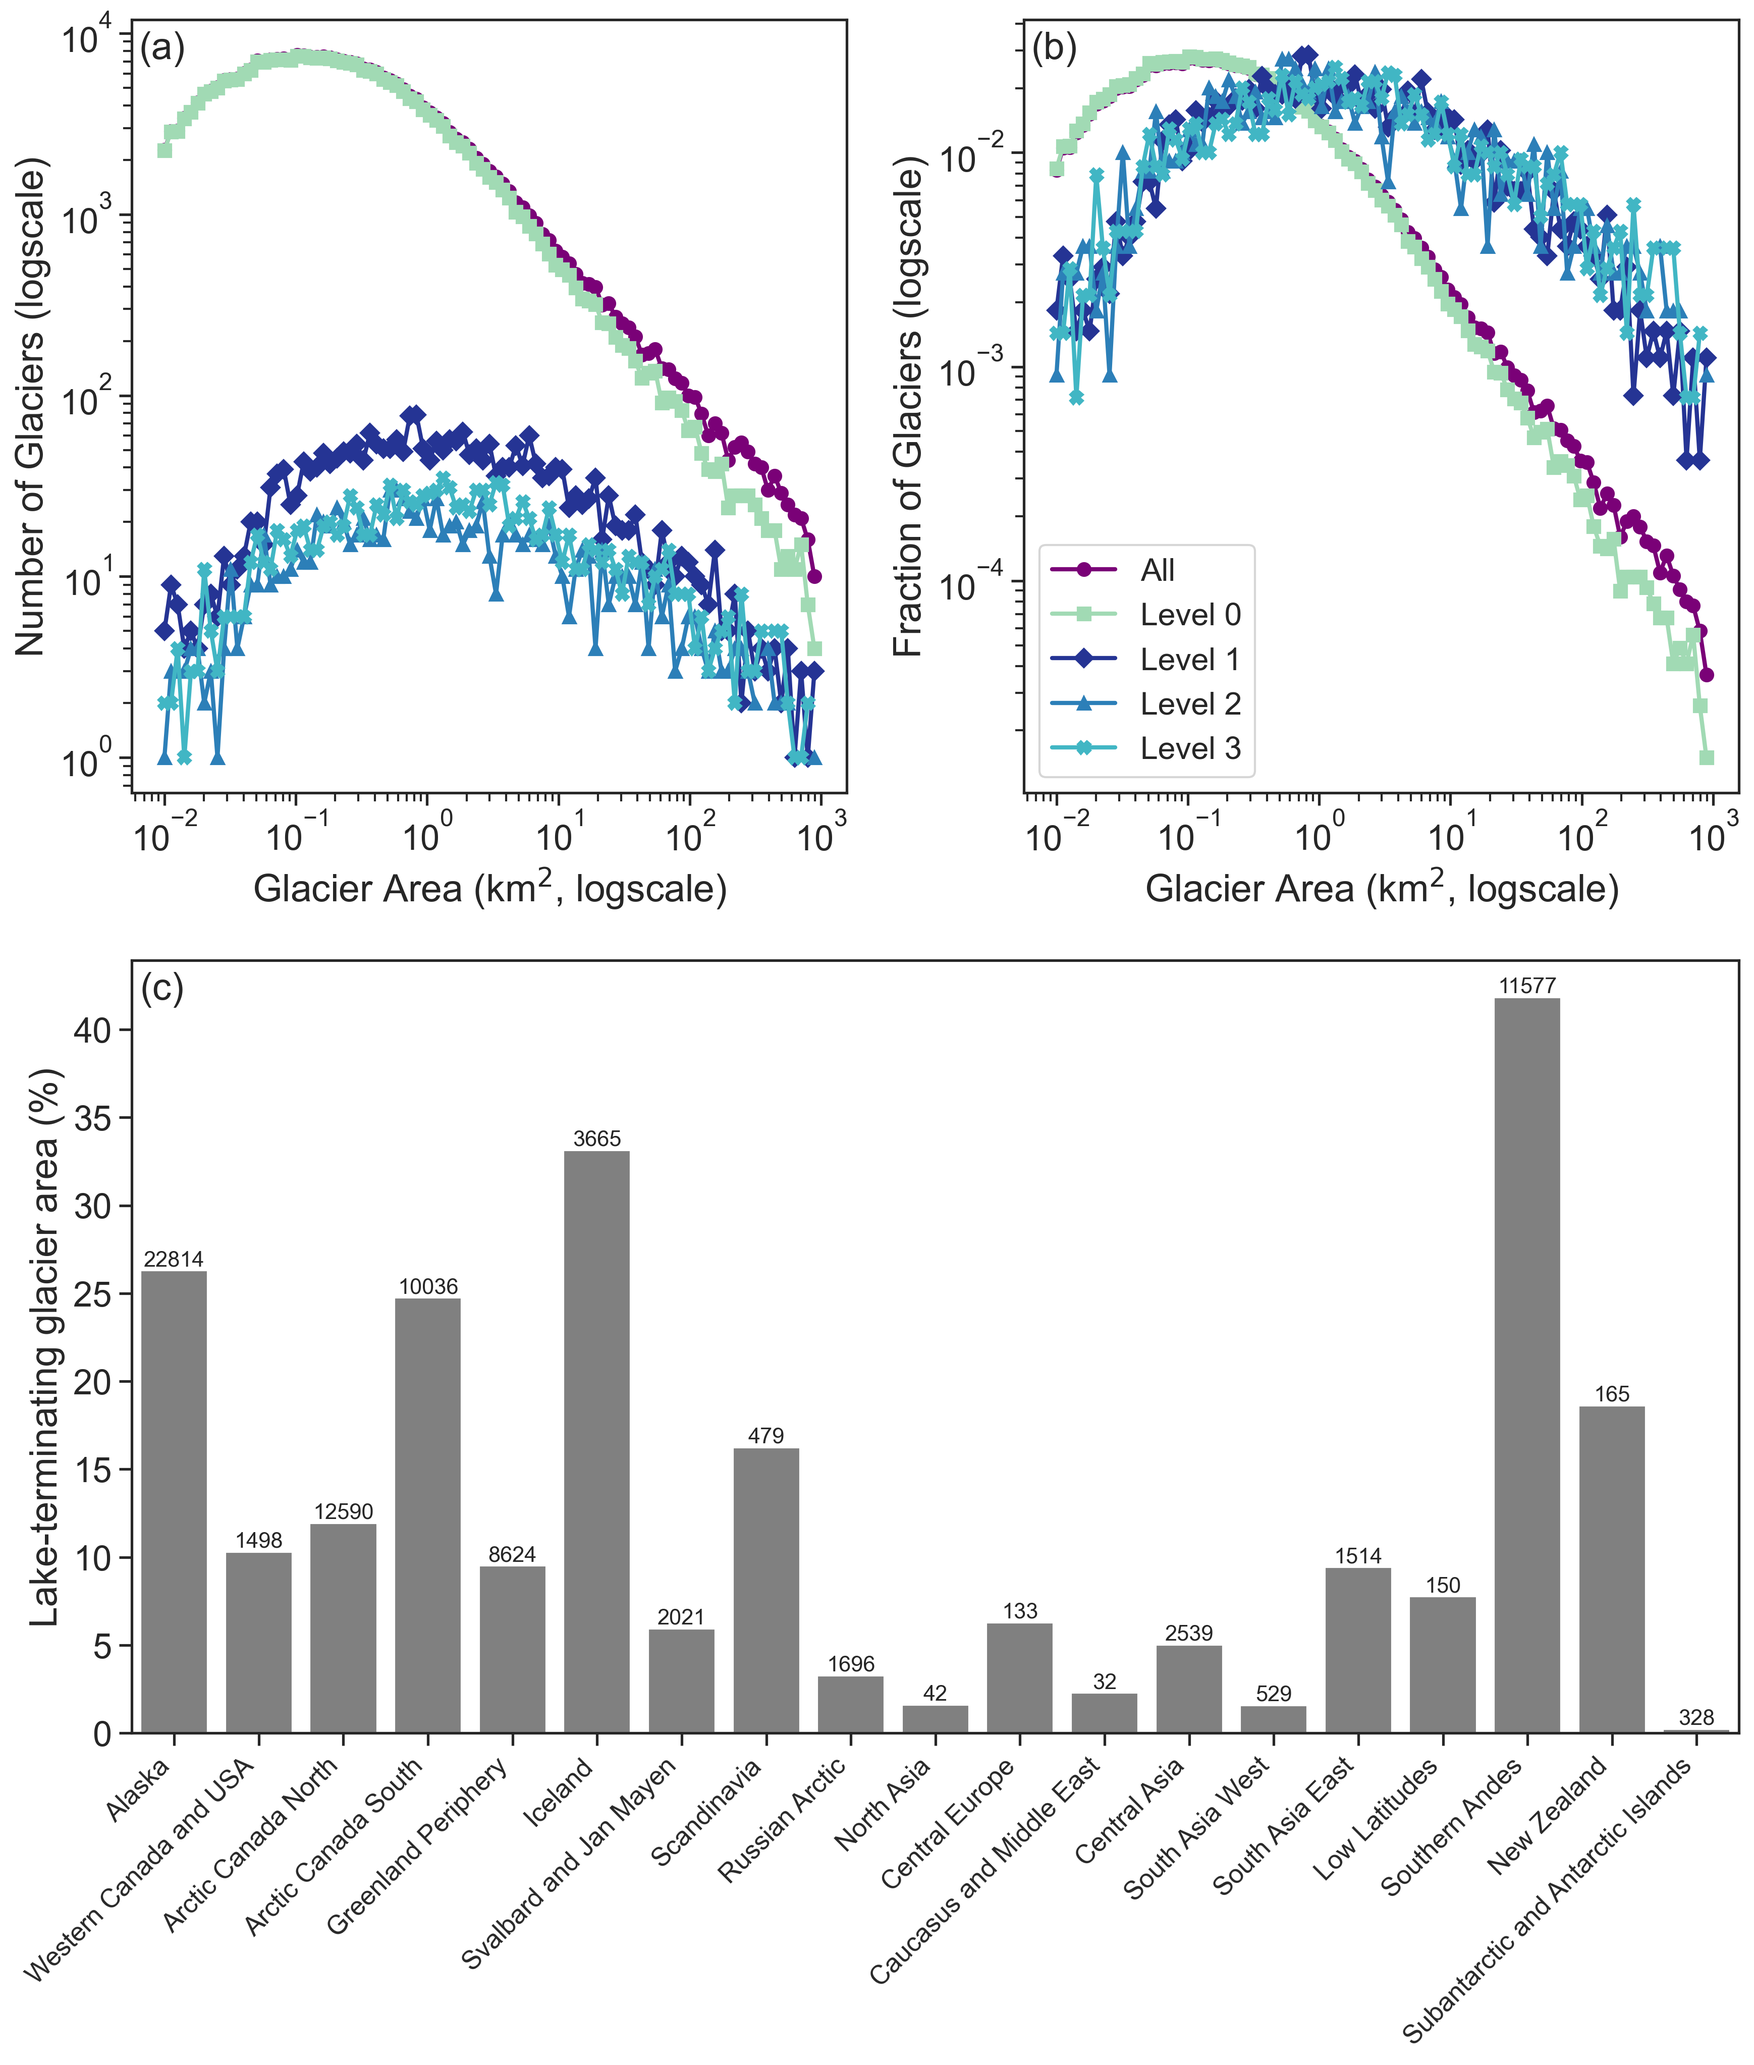
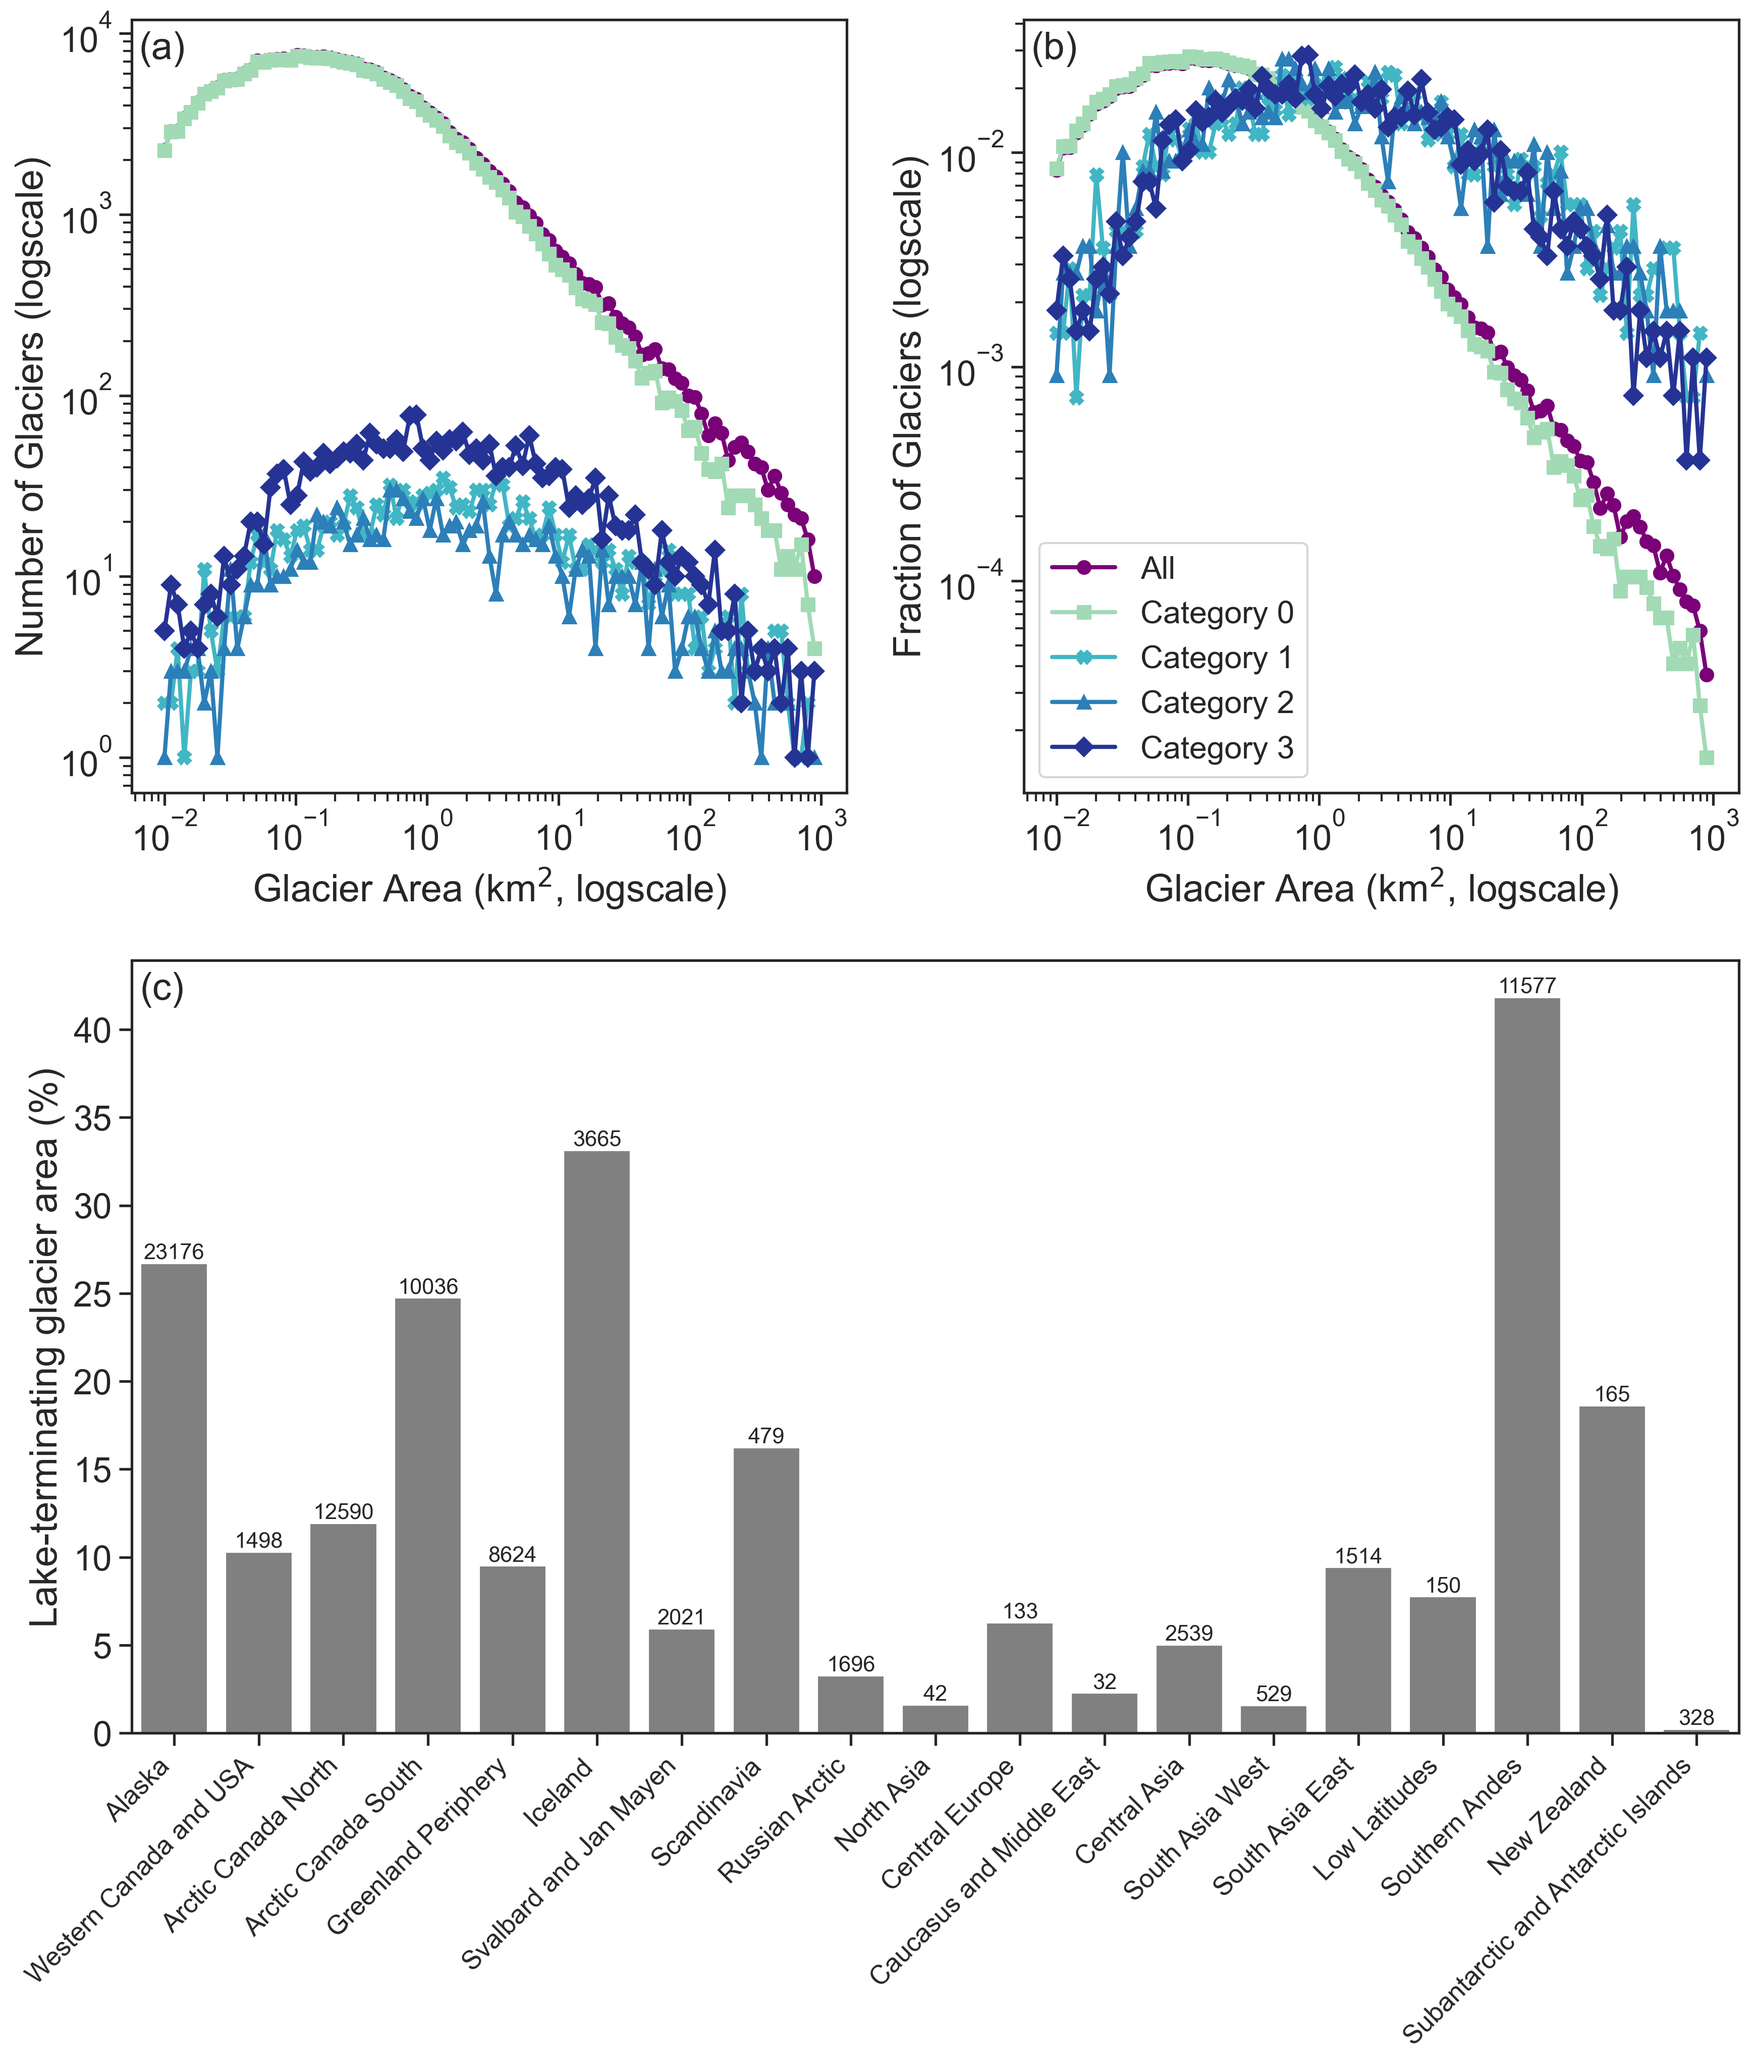
change from level to category
- update figure names
- change field names
- use local files rather than downloading

diff --git a/essd/scripts/Fig5_AreaDistribution.py b/essd/scripts/Fig5_AreaDistribution.py
@@ -7,7 +7,7 @@ import matplotlib.pyplot as plt
 from matplotlib.gridspec import GridSpec
 
 
-base_url = 'https://github.com/GLIMS-RGI/lake_terminating/raw/refs/heads/main/tables/RGI2000-v7.0-G-'
+base_url = Path('..', 'dataset')
 
 regions = ['01_alaska', '02_western_canada_usa', '03_arctic_canada_north', '04_arctic_canada_south',
            '05_greenland_periphery', '06_iceland', '07_svalbard_jan_mayen', '08_scandinavia', '09_russian_arctic',
@@ -24,7 +24,7 @@ lake_flags = []
 areas = []
 
 for reg in regions:
-    lake_flags.append(pd.read_csv(base_url + reg + '_lakeflag.csv').set_index('rgi_id'))
+    lake_flags.append(pd.read_csv(Path(base_url, f"RGI2000-v7.0-G-{reg}_lakeflag.csv")).set_index('rgi_id'))
     outlines = gpd.read_file(Path('rgi', 'RGI2000-v7.0-G-' + reg,
                                   'RGI2000-v7.0-G-' + reg + '.shp')).set_index('rgi_id')
 
@@ -40,19 +40,18 @@ lake_flags['region'] = lake_flags['rgi_id'].str.split('-', expand=True)[3]
 
 regional_vals = pd.DataFrame()
 regional_vals['total_area'] = lake_flags.groupby('region')['area'].sum()
-regional_vals['lake_area'] = lake_flags.loc[lake_flags['lake_level'].isin([1, 2])].groupby('region')['area'].sum()
+regional_vals['lake_area'] = lake_flags.loc[lake_flags['lake_cat'].isin([2, 3])].groupby('region')['area'].sum()
 regional_vals['pct_area'] = 100 * regional_vals['lake_area'] / regional_vals['total_area']
 regional_vals.index = names
 
 bins = np.logspace(-2, 3, 100)
-#dens_lake, _ = np.histogram(lake_flags.loc[lake_flags['lake_level'].isin([1, 2]), 'area'], bins)
 
 densities = dict()
 densities['all'], _ = np.histogram(lake_flags['area'], bins)
-densities['level0'], _ = np.histogram(lake_flags.loc[lake_flags['lake_level'].isin([0]), 'area'], bins)
-densities['level1'], _ = np.histogram(lake_flags.loc[lake_flags['lake_level'].isin([1]), 'area'], bins)
-densities['level2'], _ = np.histogram(lake_flags.loc[lake_flags['lake_level'].isin([2]), 'area'], bins)
-densities['level3'], _ = np.histogram(lake_flags.loc[lake_flags['lake_level'].isin([3]), 'area'], bins)
+densities['cat0'], _ = np.histogram(lake_flags.loc[lake_flags['lake_cat'].isin([0]), 'area'], bins)
+densities['cat1'], _ = np.histogram(lake_flags.loc[lake_flags['lake_cat'].isin([1]), 'area'], bins)
+densities['cat2'], _ = np.histogram(lake_flags.loc[lake_flags['lake_cat'].isin([2]), 'area'], bins)
+densities['cat3'], _ = np.histogram(lake_flags.loc[lake_flags['lake_cat'].isin([3]), 'area'], bins)
 
 for lev, dens in densities.items():
     densities[lev] = dens * 1.
@@ -77,15 +76,15 @@ axs.append(fig.add_subplot(gs[0, 0]))
 axs.append(fig.add_subplot(gs[0, 1]))
 axs.append(fig.add_subplot(gs[1, :]))
 
-labels = {'all': 'All', 'level0': 'Level 0', 'level1': 'Level 1',
-          'level2': 'Level 2', 'level3': 'Level 3'}
+labels = {'all': 'All', 'cat0': 'Category 0', 'cat1': 'Category 1',
+          'cat2': 'Category 2', 'cat3': 'Category 3'}
 
-markers = ['o', 's', 'D', '^', 'X']
-colors = ['#7a0177', '#a1dab4', '#253494', '#2c7fb8', '#41b6c4']
+markers = ['o', 's', 'X', '^', 'D']
+colors = ['#7a0177', '#a1dab4', '#41b6c4', '#2c7fb8', '#253494']
 
 for data, ax in zip([densities, fractions], axs[:2]):
-    for lev, vals, marker, col in zip(data.keys(), data.values(), markers, colors):
-        ax.plot(bins[:-1], vals, marker=marker, color=col, label=labels[lev], linewidth=2)
+    for cat, vals, marker, col in zip(data.keys(), data.values(), markers, colors):
+        ax.plot(bins[:-1], vals, marker=marker, color=col, label=labels[cat], linewidth=2)
     ax.set_xscale('log')
     ax.set_yscale('log')
 
